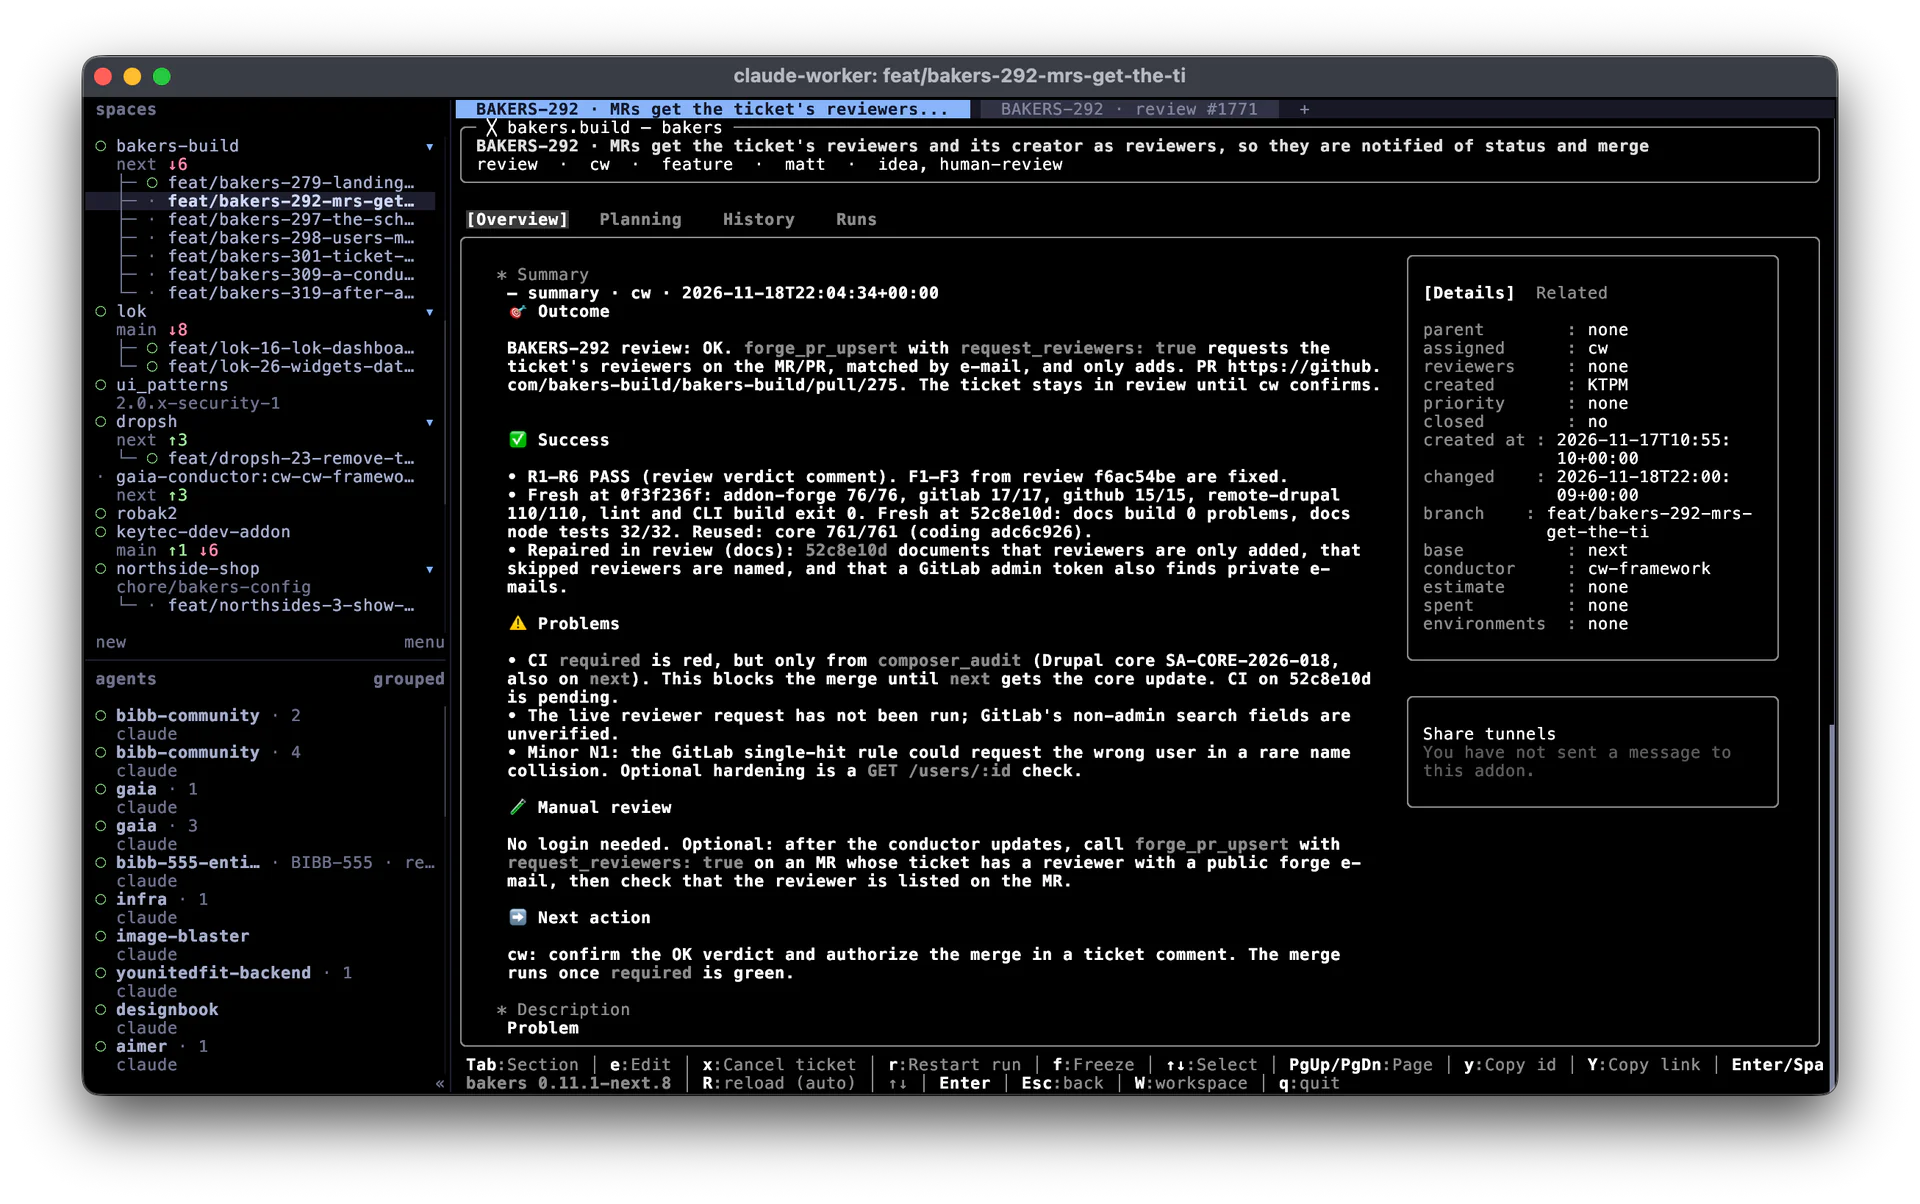
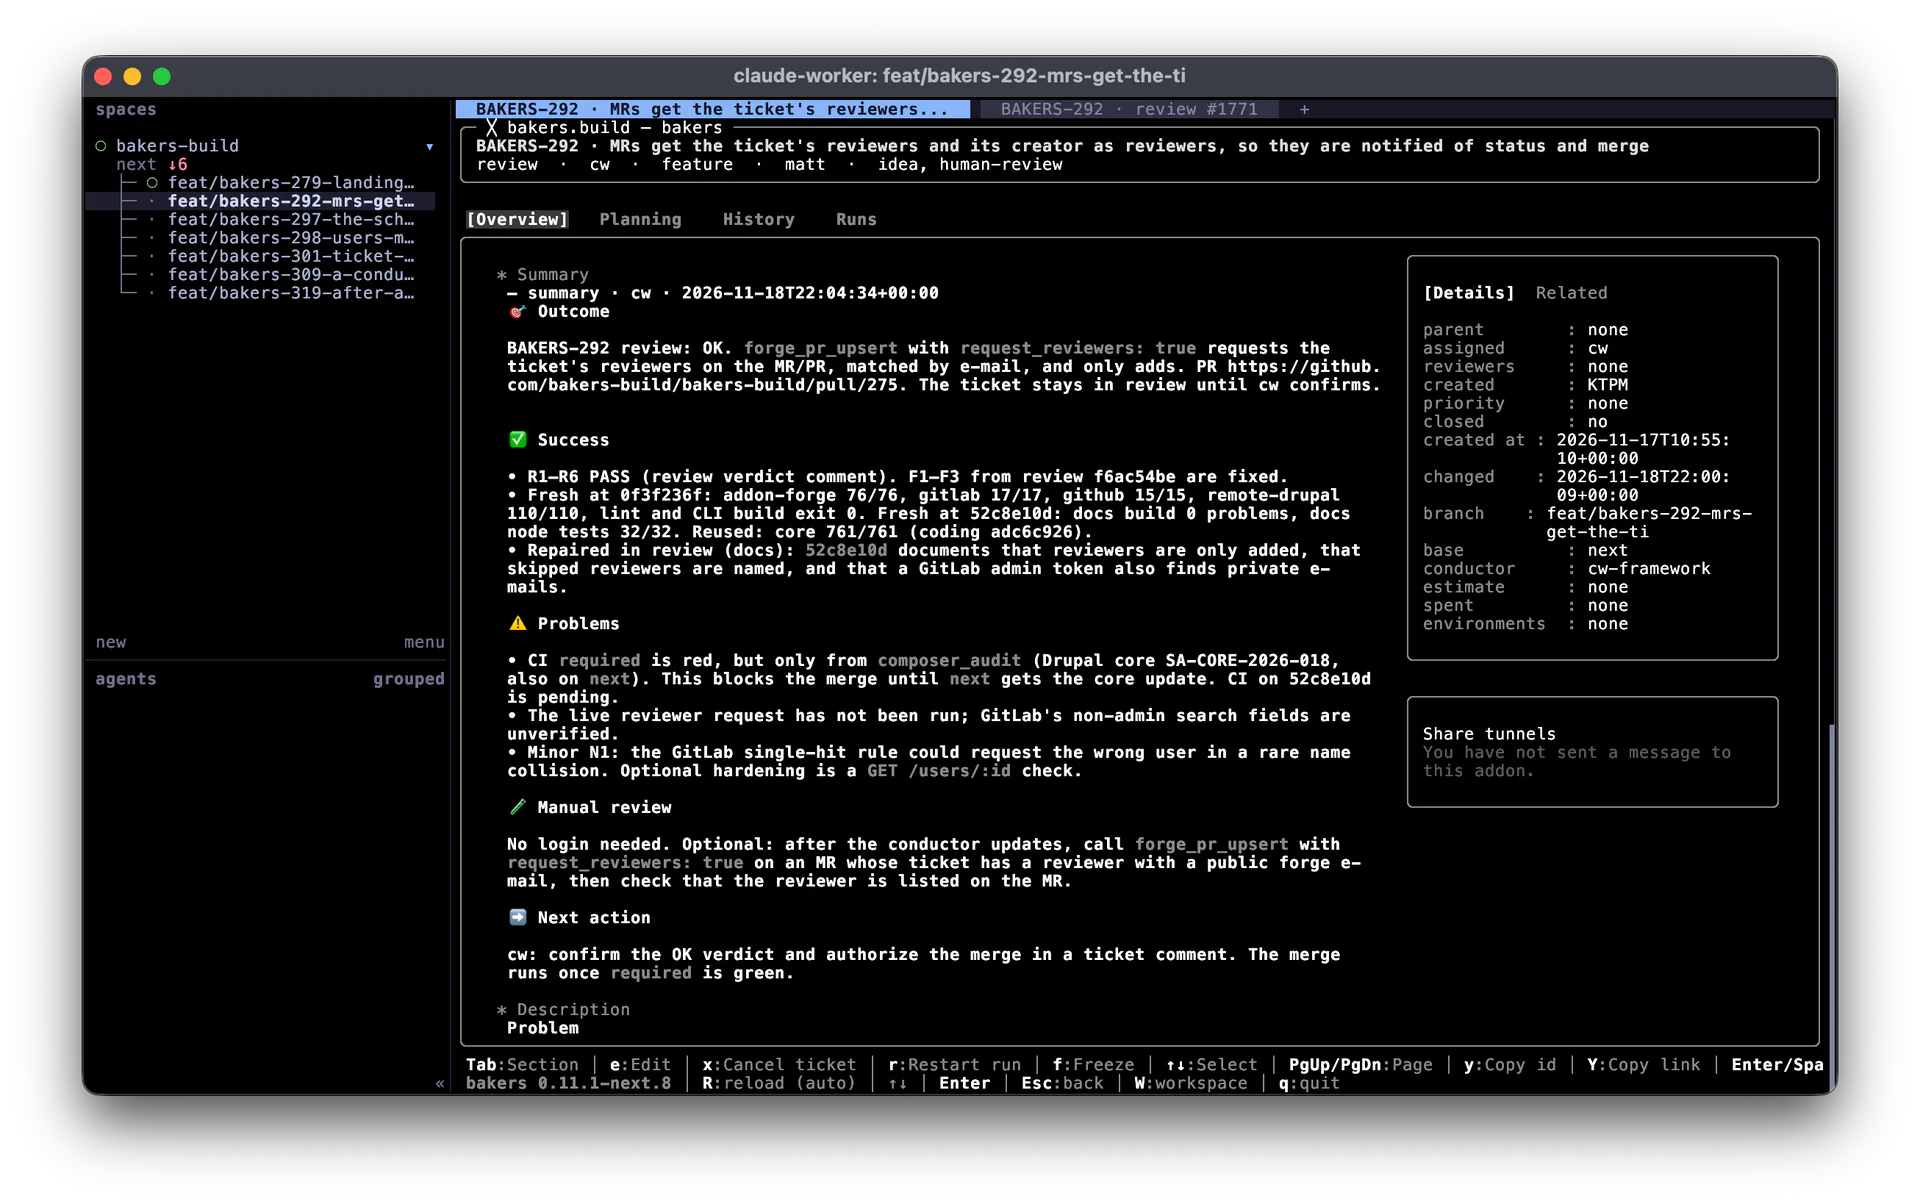
feat(docs): herdr screenshot shows only the bakers workspace

Changed region(s): [[0.0625, 0.2458, 0.2188, 0.5224], [0.0625, 0.5839, 0.1562, 0.8912], [0.1562, 0.7068, 0.1875, 0.7375]]

diff --git a/docs/.vitepress/theme/landing/copy.ts b/docs/.vitepress/theme/landing/copy.ts
@@ -51,7 +51,7 @@ const en = {
     title: 'This is what a run looks like.',
     text: 'The agent works and tests. If something is missing, you send the ticket back with one sentence. If it fits, you authorize the merge.',
     clients: [
-      { image: 'herdr', title: 'herdr', text: 'Review a ticket’s outcome, problems and next action without leaving the terminal.', alt: 'herdr with its sidebar of projects, branches and agents next to the bakers terminal UI, which shows a ticket overview with summary, success, problems and manual review.' },
+      { image: 'herdr', title: 'herdr', text: 'Review a ticket’s outcome, problems and next action without leaving the terminal.', alt: 'herdr with the bakers-build project and its ticket branches in the sidebar next to the bakers terminal UI, which shows a ticket overview with summary, success, problems and manual review.' },
       { image: 'orca', title: 'Orca', text: 'Follow a ticket’s plan next to your worktrees and files in the Orca app.', alt: 'The bakers terminal UI inside the Orca app showing a plan summary beside the worktree list and file tree.' },
     ],
   },
@@ -137,7 +137,7 @@ const de: Copy = {
     title: 'So sieht ein Lauf aus.',
     text: 'Der Agent arbeitet und testet. Fehlt etwas, schickst du das Ticket mit einem Satz zurück. Passt es, gibst du den Merge frei.',
     clients: [
-      { image: 'herdr', title: 'herdr', text: 'Prüfe Ergebnis, Probleme und nächste Aktion eines Tickets, ohne das Terminal zu verlassen.', alt: 'herdr mit seiner Seitenleiste aus Projekten, Branches und Agenten neben der bakers-Terminal-Oberfläche, die eine Ticketübersicht aus Zusammenfassung, Erfolg, Problemen und manueller Prüfung zeigt.' },
+      { image: 'herdr', title: 'herdr', text: 'Prüfe Ergebnis, Probleme und nächste Aktion eines Tickets, ohne das Terminal zu verlassen.', alt: 'herdr mit dem Projekt bakers-build und seinen Ticket-Branches in der Seitenleiste neben der bakers-Terminal-Oberfläche, die eine Ticketübersicht aus Zusammenfassung, Erfolg, Problemen und manueller Prüfung zeigt.' },
       { image: 'orca', title: 'Orca', text: 'Verfolge den Plan eines Tickets neben deinen Worktrees und Dateien in der Orca-App.', alt: 'Die bakers-Terminal-Oberfläche in der Orca-App mit einer Plan-Zusammenfassung neben Worktree-Liste und Dateibaum.' },
     ],
   },
